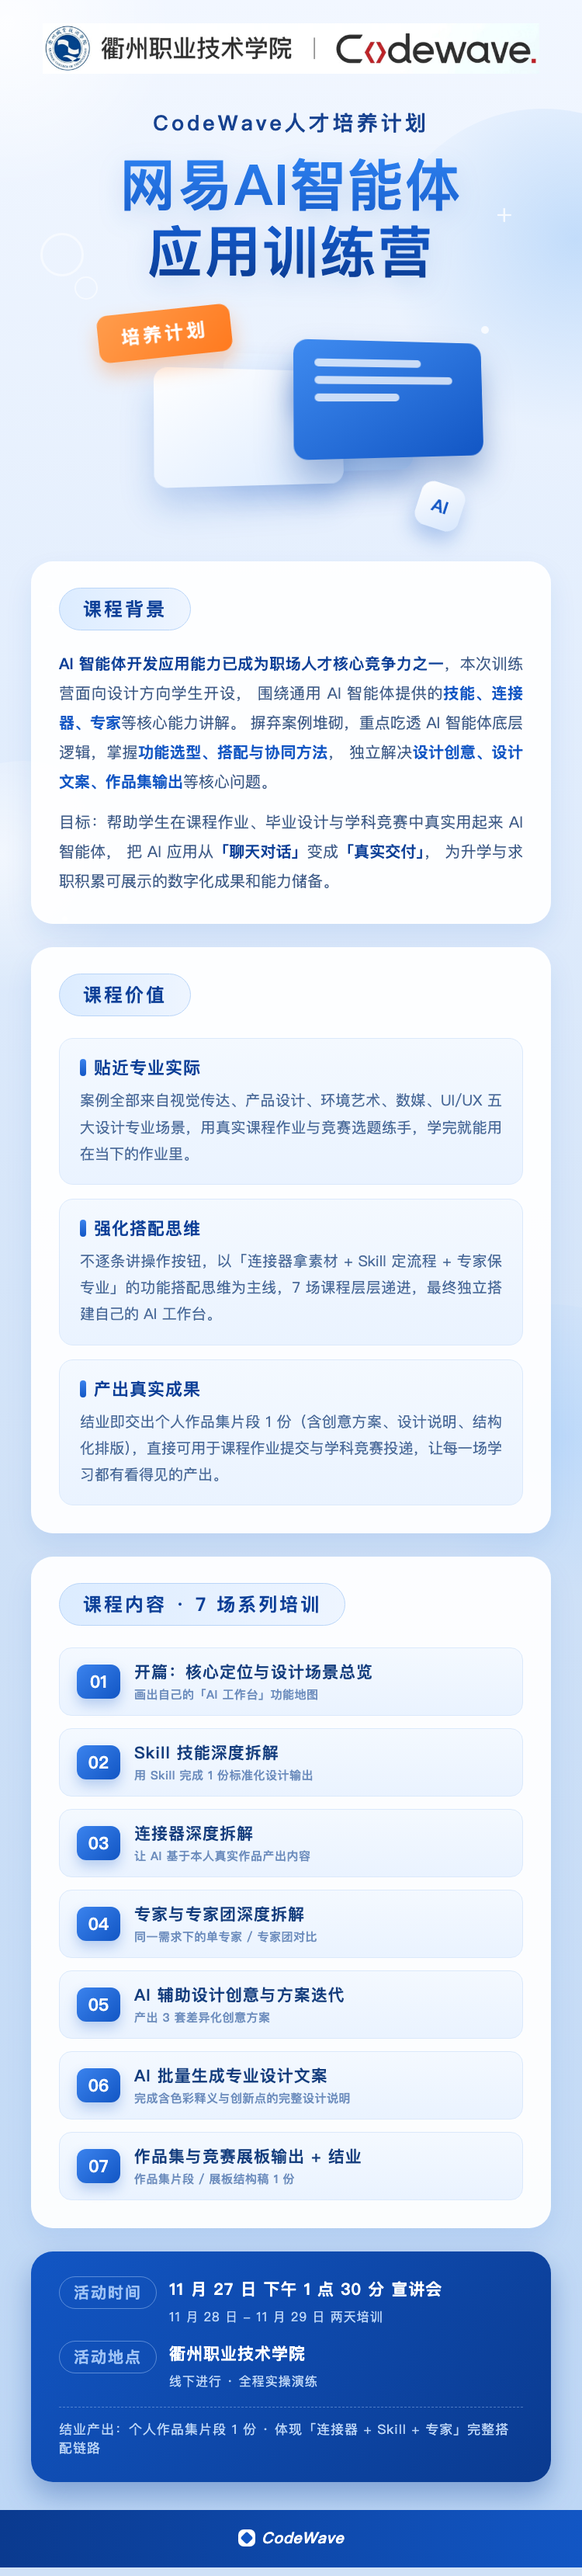
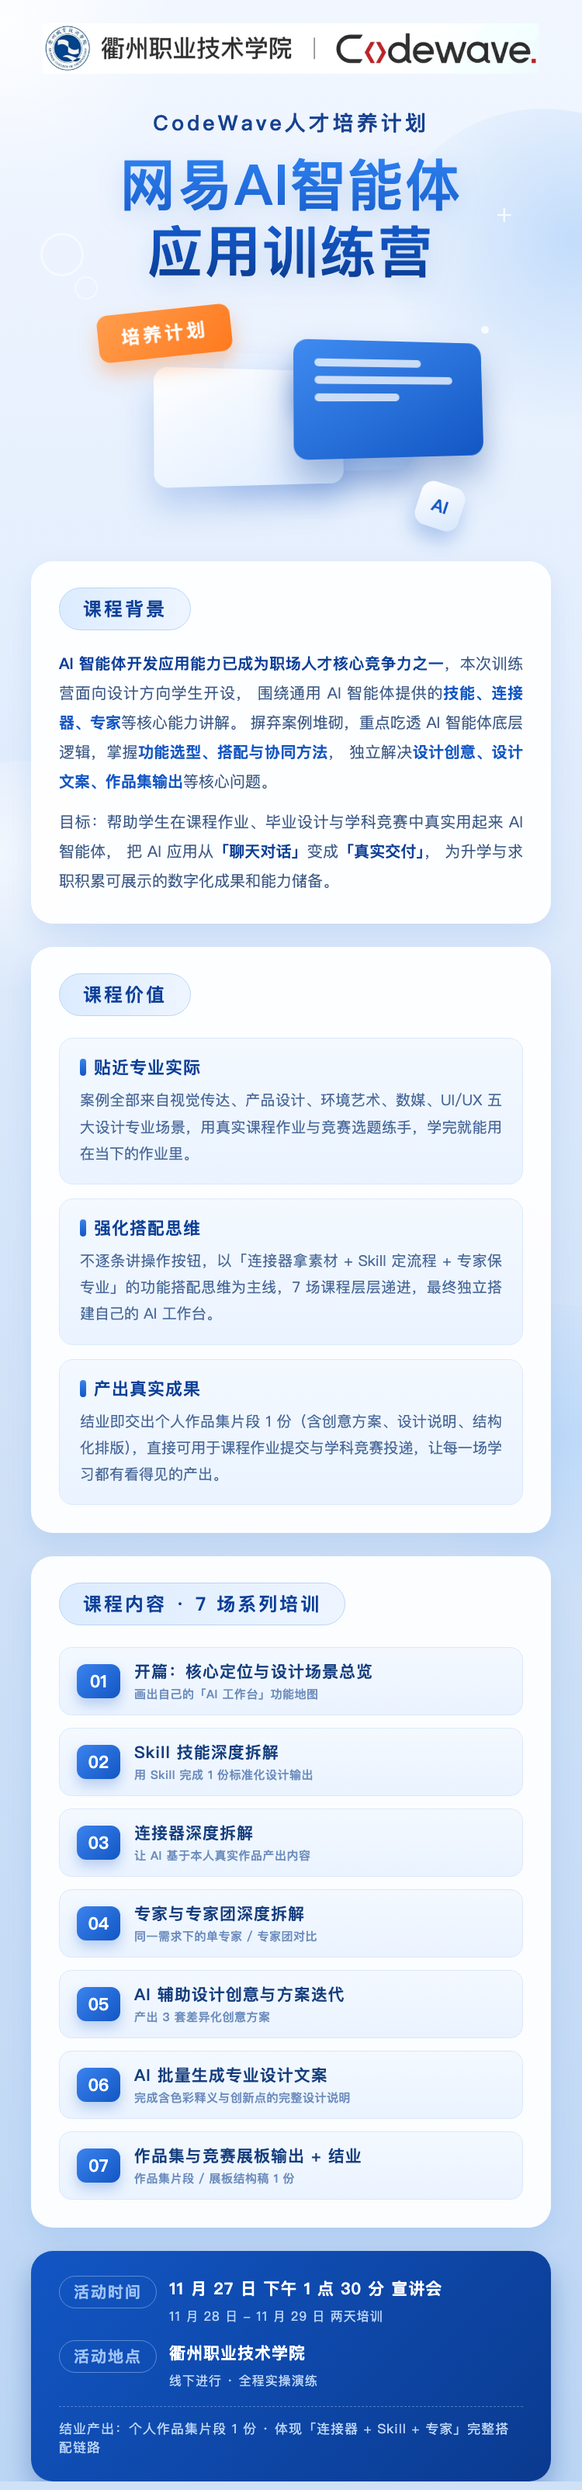
assets: 长图移除底部 CodeWave 深蓝条

diff --git a/assets/images/2026-训练营宣传长图.html b/assets/images/2026-训练营宣传长图.html
@@ -120,14 +120,7 @@
   .info .note{margin-top:20px;border-top:1px dashed rgba(159,195,245,.45);padding-top:16px;
     font-size:17px;color:#bcd6f7;letter-spacing:1px}
 
-  /* ---------- 底部 ---------- */
-  .foot{position:relative;z-index:2;margin-top:36px;background:linear-gradient(90deg,#0a3a8f,#1256c4);
-    padding:22px 0;text-align:center}
-  .foot .cw{display:inline-flex;align-items:center;gap:8px}
-  .foot .cw .mark{width:22px;height:22px;border-radius:7px;background:#fff;position:relative}
-  .foot .cw .mark::after{content:"";position:absolute;inset:5px;border-radius:3px;background:#1256c4;transform:rotate(45deg)}
-  .foot .cw .txt{font-size:20px;font-weight:800;color:#fff;letter-spacing:.5px;font-style:italic}
-  .bottom-pad{height:0}
+  .bottom-pad{height:34px}
 </style>
 </head>
 <body>
@@ -221,11 +214,7 @@
     <div class="note">结业产出：个人作品集片段 1 份 · 体现「连接器 + Skill + 专家」完整搭配链路</div>
   </div>
 
-  <!-- 底部 -->
-  <div class="foot">
-    <div class="cw"><div class="mark"></div><div class="txt">CodeWave</div></div>
-  </div>
-  <div class="bottom-pad"></div>
+
 </div>
 </body>
 </html>
